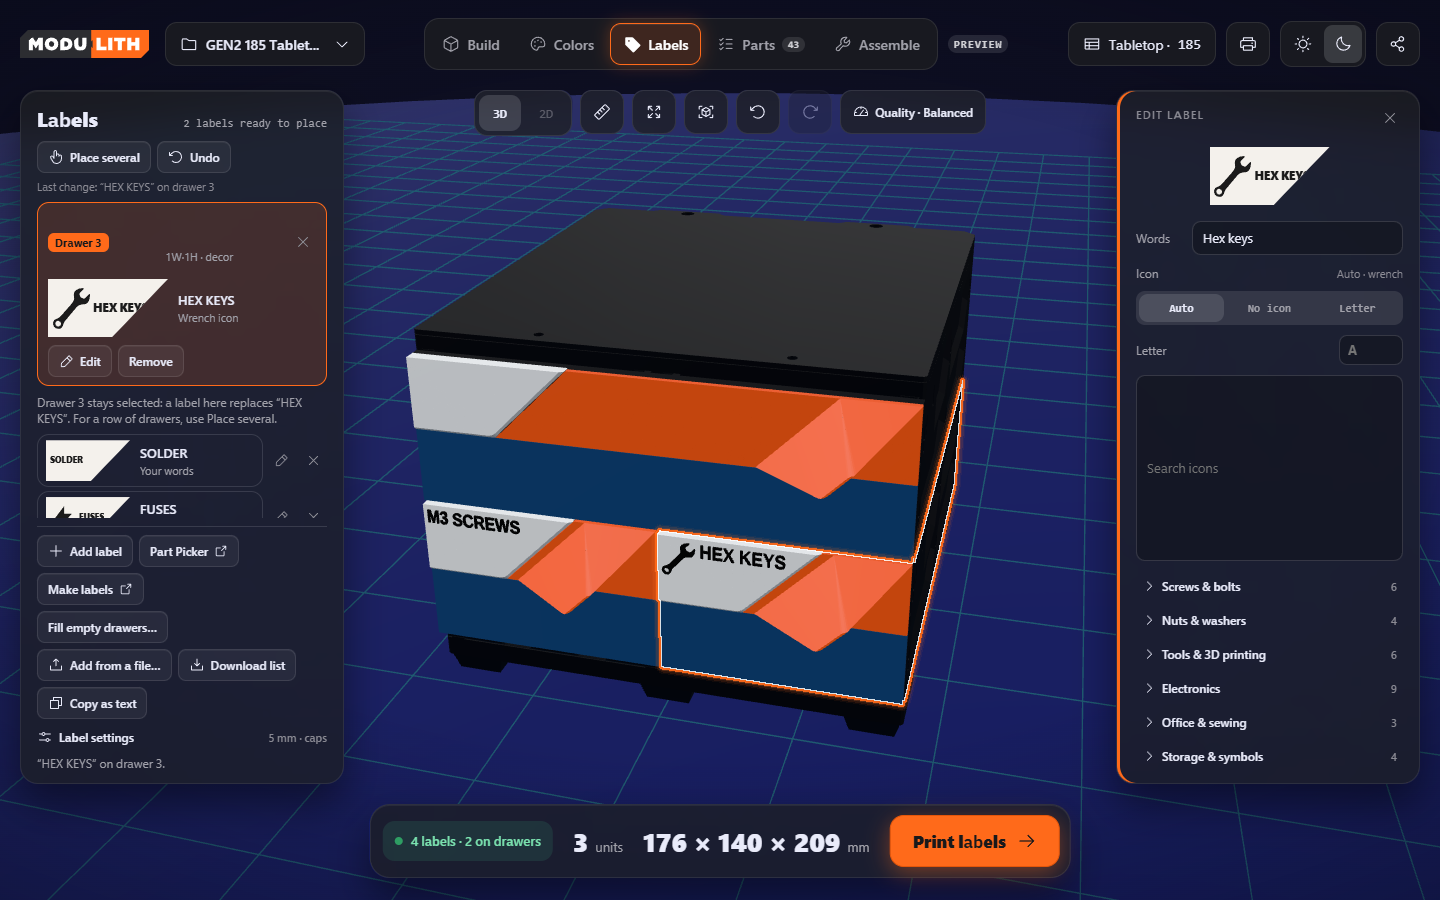
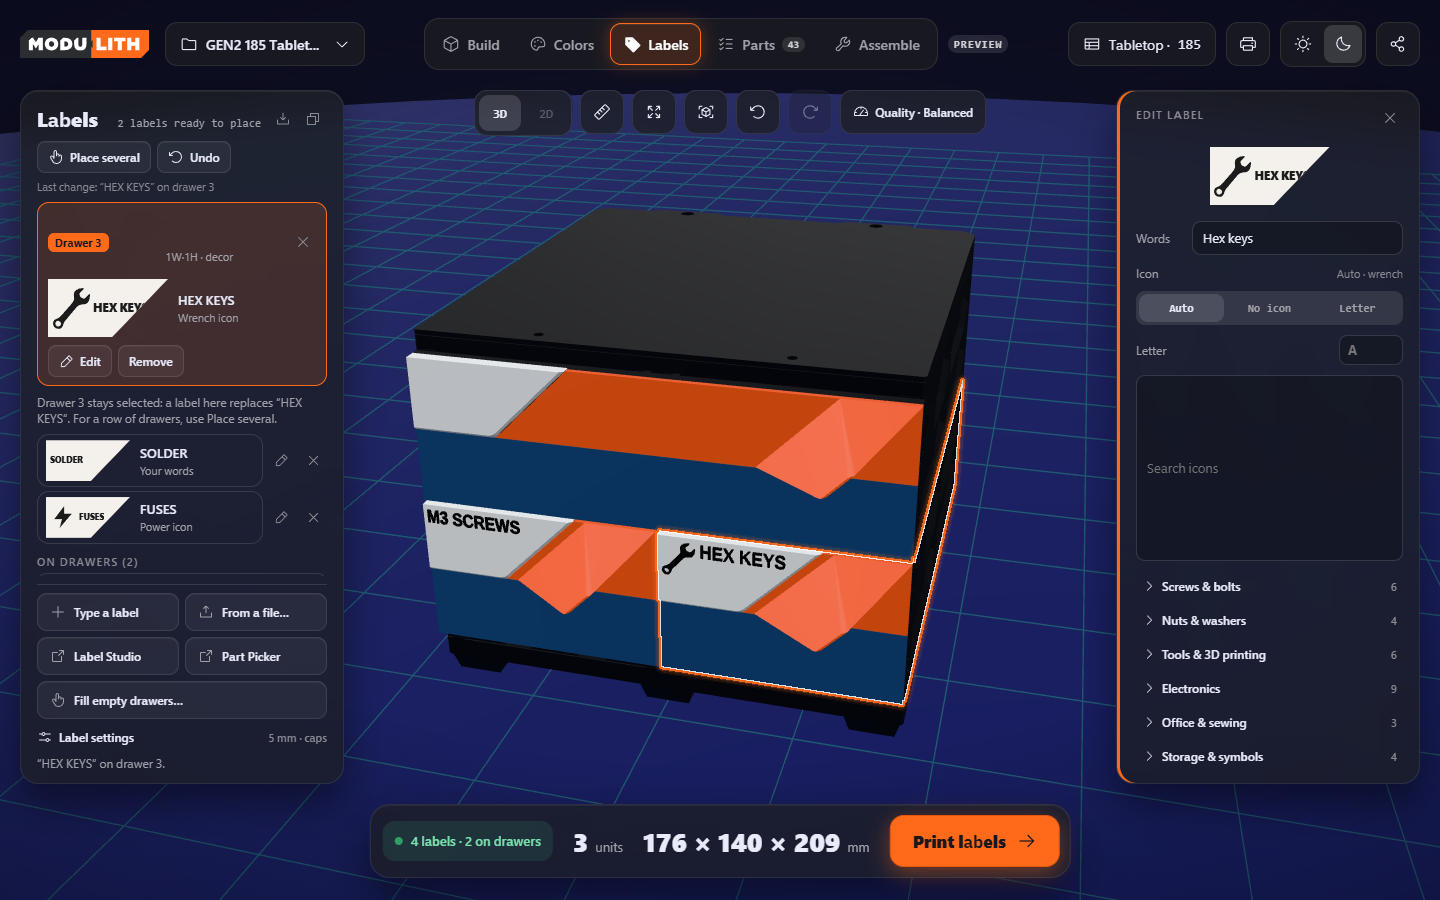
Labels: the panel's foot as four equal tiles, Fill on its own row
Joey (2026-10-13, on his phone): the foot's seven mismatched buttons
"thrown together like this look messy and overwhelming". The ways to add
labels are now a 2x2 grid of equal tiles (Type a label, From a file,
Label Studio, Part Picker), Fill empty drawers has a full-width row with
its reason under it when disabled, the two exports are icon buttons in
the panel head, and the settings stay last. No behaviour change.

Terra 01a13521: no objection.

Changed region(s): [[0.0312, 0.56, 0.2188, 0.8089], [0.0938, 0.1244, 0.2188, 0.1556], [0.1562, 0.6533, 0.1875, 0.6844]]

diff --git a/js/workspaces/labels.js b/js/workspaces/labels.js
@@ -268,6 +268,10 @@ export function mountLabels(stage, ctx) {
     panel.appendChild(el('div.head', {}, [
       el('h2', { text: 'Labels' }),
       el('span.count', { text: ready.length ? `${n(ready.length, 'label')} ready to place` : labels.length ? (slots ? `${onN} of ${slots} drawers labelled` : `${n(labels.length, 'label')}`) : '' }),
+      labels.length ? el('span.tools', {}, [
+        el('button.mini', { title: 'Download the list · a MODULITH label list (.json) the Label Studio opens', 'aria-label': 'Download the label list', onclick: () => download(`modulith-${s.length}-labels.json`, JSON.stringify(R.exportDoc(L, s), null, 2), 'application/json') }, [icon('download-simple', { size: 16 })]),
+        el('button.mini', { title: 'Copy the labels as text, in drawer order', 'aria-label': 'Copy the labels as text', onclick: async () => { try { await navigator.clipboard.writeText(R.exportText(L, s)); say('Labels copied.'); } catch { say('Could not reach the clipboard.'); } } }, [icon('copy', { size: 16 })]),
+      ]) : null,
     ]));
     const last = lastChange();
     panel.appendChild(el('div.row.top', {}, [
@@ -317,19 +321,17 @@ export function mountLabels(stage, ctx) {
     // the foot: ways in, fill, exports, settings, status
     const pairs = R.fillPairs(L, s);
     const foot = el('div.foot');
-    foot.appendChild(el('div.row', {}, [
-      el('button.key.sm', { onclick: () => openAdd() }, [icon('plus', { size: 16 }), 'Add label']),
-      el('button.key.sm', { title: 'Opens the Label Studio’s Part Picker in a new tab: choose screws, nuts and washers; save or download its label list and add it here from the file', onclick: () => openStudio(true) }, ['Part Picker', icon('arrow-square-out', { size: 14 })]),
-      el('button.key.sm', { title: 'Opens the Label Studio in a new tab: icons, stripes, uploads and the print plate', onclick: () => openStudio(false) }, ['Make labels', icon('arrow-square-out', { size: 14 })]),
+    /* the ways in, as four equal tiles (Joey 2026-10-13: a pile of mismatched buttons read as messy); Fill is an action on the
+       build and gets a row of its own; the exports are the two icon buttons in the head; the settings stay last, collapsed */
+    foot.appendChild(el('div.ways', { role: 'group', 'aria-label': 'Add labels' }, [
+      el('button.key.tile', { title: 'Type a label by hand', onclick: () => openAdd() }, [icon('plus', { size: 16 }), 'Type a label']),
+      el('button.key.tile', { title: 'A MODULITH label list, a Part Picker label-items file, or a Label Studio set file', onclick: () => fileIn.click() }, [icon('upload-simple', { size: 16 }), 'From a file…']),
+      el('button.key.tile', { title: 'Opens the Label Studio in a new tab: icons, stripes, uploads and the print plate. Save its set file and add it here', onclick: () => openStudio(false) }, [icon('arrow-square-out', { size: 16 }), 'Label Studio']),
+      el('button.key.tile', { title: 'Opens the Label Studio’s Part Picker in a new tab: choose screws, nuts and washers; download its label list and add it here', onclick: () => openStudio(true) }, [icon('arrow-square-out', { size: 16 }), 'Part Picker']),
     ]));
-    if (labels.length) foot.appendChild(el('div.row', {}, [
-      el('button.key.sm', { disabled: !pairs.length, onclick: openFill }, ['Fill empty drawers…']),
-      el('span.why', { text: pairs.length ? '' : !faceOk ? 'Needs an EdgeLabel or Classic Pro faceplate' : !ready.length ? 'No labels ready to place' : 'No empty drawers' }),
-    ]));
-    foot.appendChild(el('div.row', {}, [
-      el('button.key.sm', { title: 'A MODULITH label list, a Part Picker label-items file, or a Label Studio set file', onclick: () => fileIn.click() }, [icon('upload-simple', { size: 16 }), 'Add from a file…']),
-      labels.length ? el('button.key.sm', { title: 'This build’s labels as a MODULITH label list (.json): the Label Studio opens it', onclick: () => download(`modulith-${s.length}-labels.json`, JSON.stringify(R.exportDoc(L, s), null, 2), 'application/json') }, [icon('download-simple', { size: 16 }), 'Download list']) : null,
-      labels.length ? el('button.key.sm', { title: 'The labels as text, in drawer order', onclick: async () => { try { await navigator.clipboard.writeText(R.exportText(L, s)); say('Labels copied.'); } catch { say('Could not reach the clipboard.'); } } }, [icon('copy', { size: 16 }), 'Copy as text']) : null,
+    if (labels.length) foot.appendChild(el('div.fillrow', {}, [
+      el('button.key.tile.wide', { disabled: !pairs.length, onclick: openFill }, [icon('hand-pointing', { size: 16 }), 'Fill empty drawers…']),
+      pairs.length ? null : el('span.why', { text: !faceOk ? 'Needs an EdgeLabel or Classic Pro faceplate' : !ready.length ? 'No labels ready to place' : 'No empty drawers' }),
     ]));
     foot.appendChild(renderSettings());
     if (st.status) foot.appendChild(el('p.status' + (st.warn ? '.warn' : ''), { role: 'status', text: st.status }));

diff --git a/css/app.css b/css/app.css
@@ -429,7 +429,15 @@ html[data-ws="colors"] #ws-tools { left: 344px; right: 364px; }
 #ws-labels { position: absolute; top: 90px; left: 20px; bottom: 116px; width: 324px; box-sizing: border-box; padding: 14px 16px 12px; border-radius: 18px; display: flex; flex-direction: column; gap: 8px; overflow: hidden; }
 #ws-labels .head { display: flex; align-items: baseline; justify-content: space-between; gap: 8px; }
 #ws-labels h2, #ws-labeledit h2 { margin: 0; font-family: var(--font-display); font-weight: 800; font-size: 20px; font-stretch: 108%; }
-#ws-labels .count { font-family: var(--font-mono); font-size: 11px; color: var(--ink-2); text-align: right; }
+#ws-labels .count { flex: 1; min-width: 0; font-family: var(--font-mono); font-size: 11px; color: var(--ink-2); text-align: right; }
+#ws-labels .head .tools { display: inline-flex; gap: 2px; align-self: center; }
+#ws-labels .ways { display: grid; grid-template-columns: 1fr 1fr; gap: 6px; }
+#ws-labels .key.tile { display: flex; align-items: center; justify-content: flex-start; gap: 8px; height: 38px; padding: 0 12px; border-radius: 10px; font-size: 12px; font-weight: 600; white-space: nowrap; overflow: hidden; }
+#ws-labels .key.tile svg { flex: none; color: var(--ink-2); }
+#ws-labels .key.tile[disabled] { opacity: .45; cursor: not-allowed; }
+#ws-labels .fillrow { display: flex; flex-direction: column; gap: 3px; }
+#ws-labels .fillrow .wide { width: 100%; }
+#ws-labels .fillrow .why { padding-left: 2px; }
 #ws-labels .row { display: flex; flex-wrap: wrap; align-items: center; gap: 6px; }
 #ws-labels .row.top:empty { display: none; }
 #ws-labels .key.sm, #ws-labeledit .key.sm, #ws-modal .key { display: inline-flex; align-items: center; gap: 6px; height: 32px; padding: 0 10px; border-radius: 8px; font-size: 12px; font-weight: 600; white-space: nowrap; }
@@ -602,7 +610,7 @@ html[data-ws="labels"] #ws-tools { left: 364px; right: 344px; }
   #ws-colors .scheme .shop { display: none; }
   /* Labels: the panel and the editor are sheets; the list scrolls with the sheet, not inside it */
   #ws-labels .scroll { flex: none; overflow: visible; min-height: 0; margin: 0; padding: 0; }
-  #ws-labels .foot .row { gap: 4px; }
+  #ws-labels .key.tile { height: 42px; }
   #ws-modal { position: fixed; z-index: 40; }
   #ws-modal .box { width: 100%; }
   /* Assemble: the player sits on the bar as a compact card (the note gets the width, the colour switch and the
